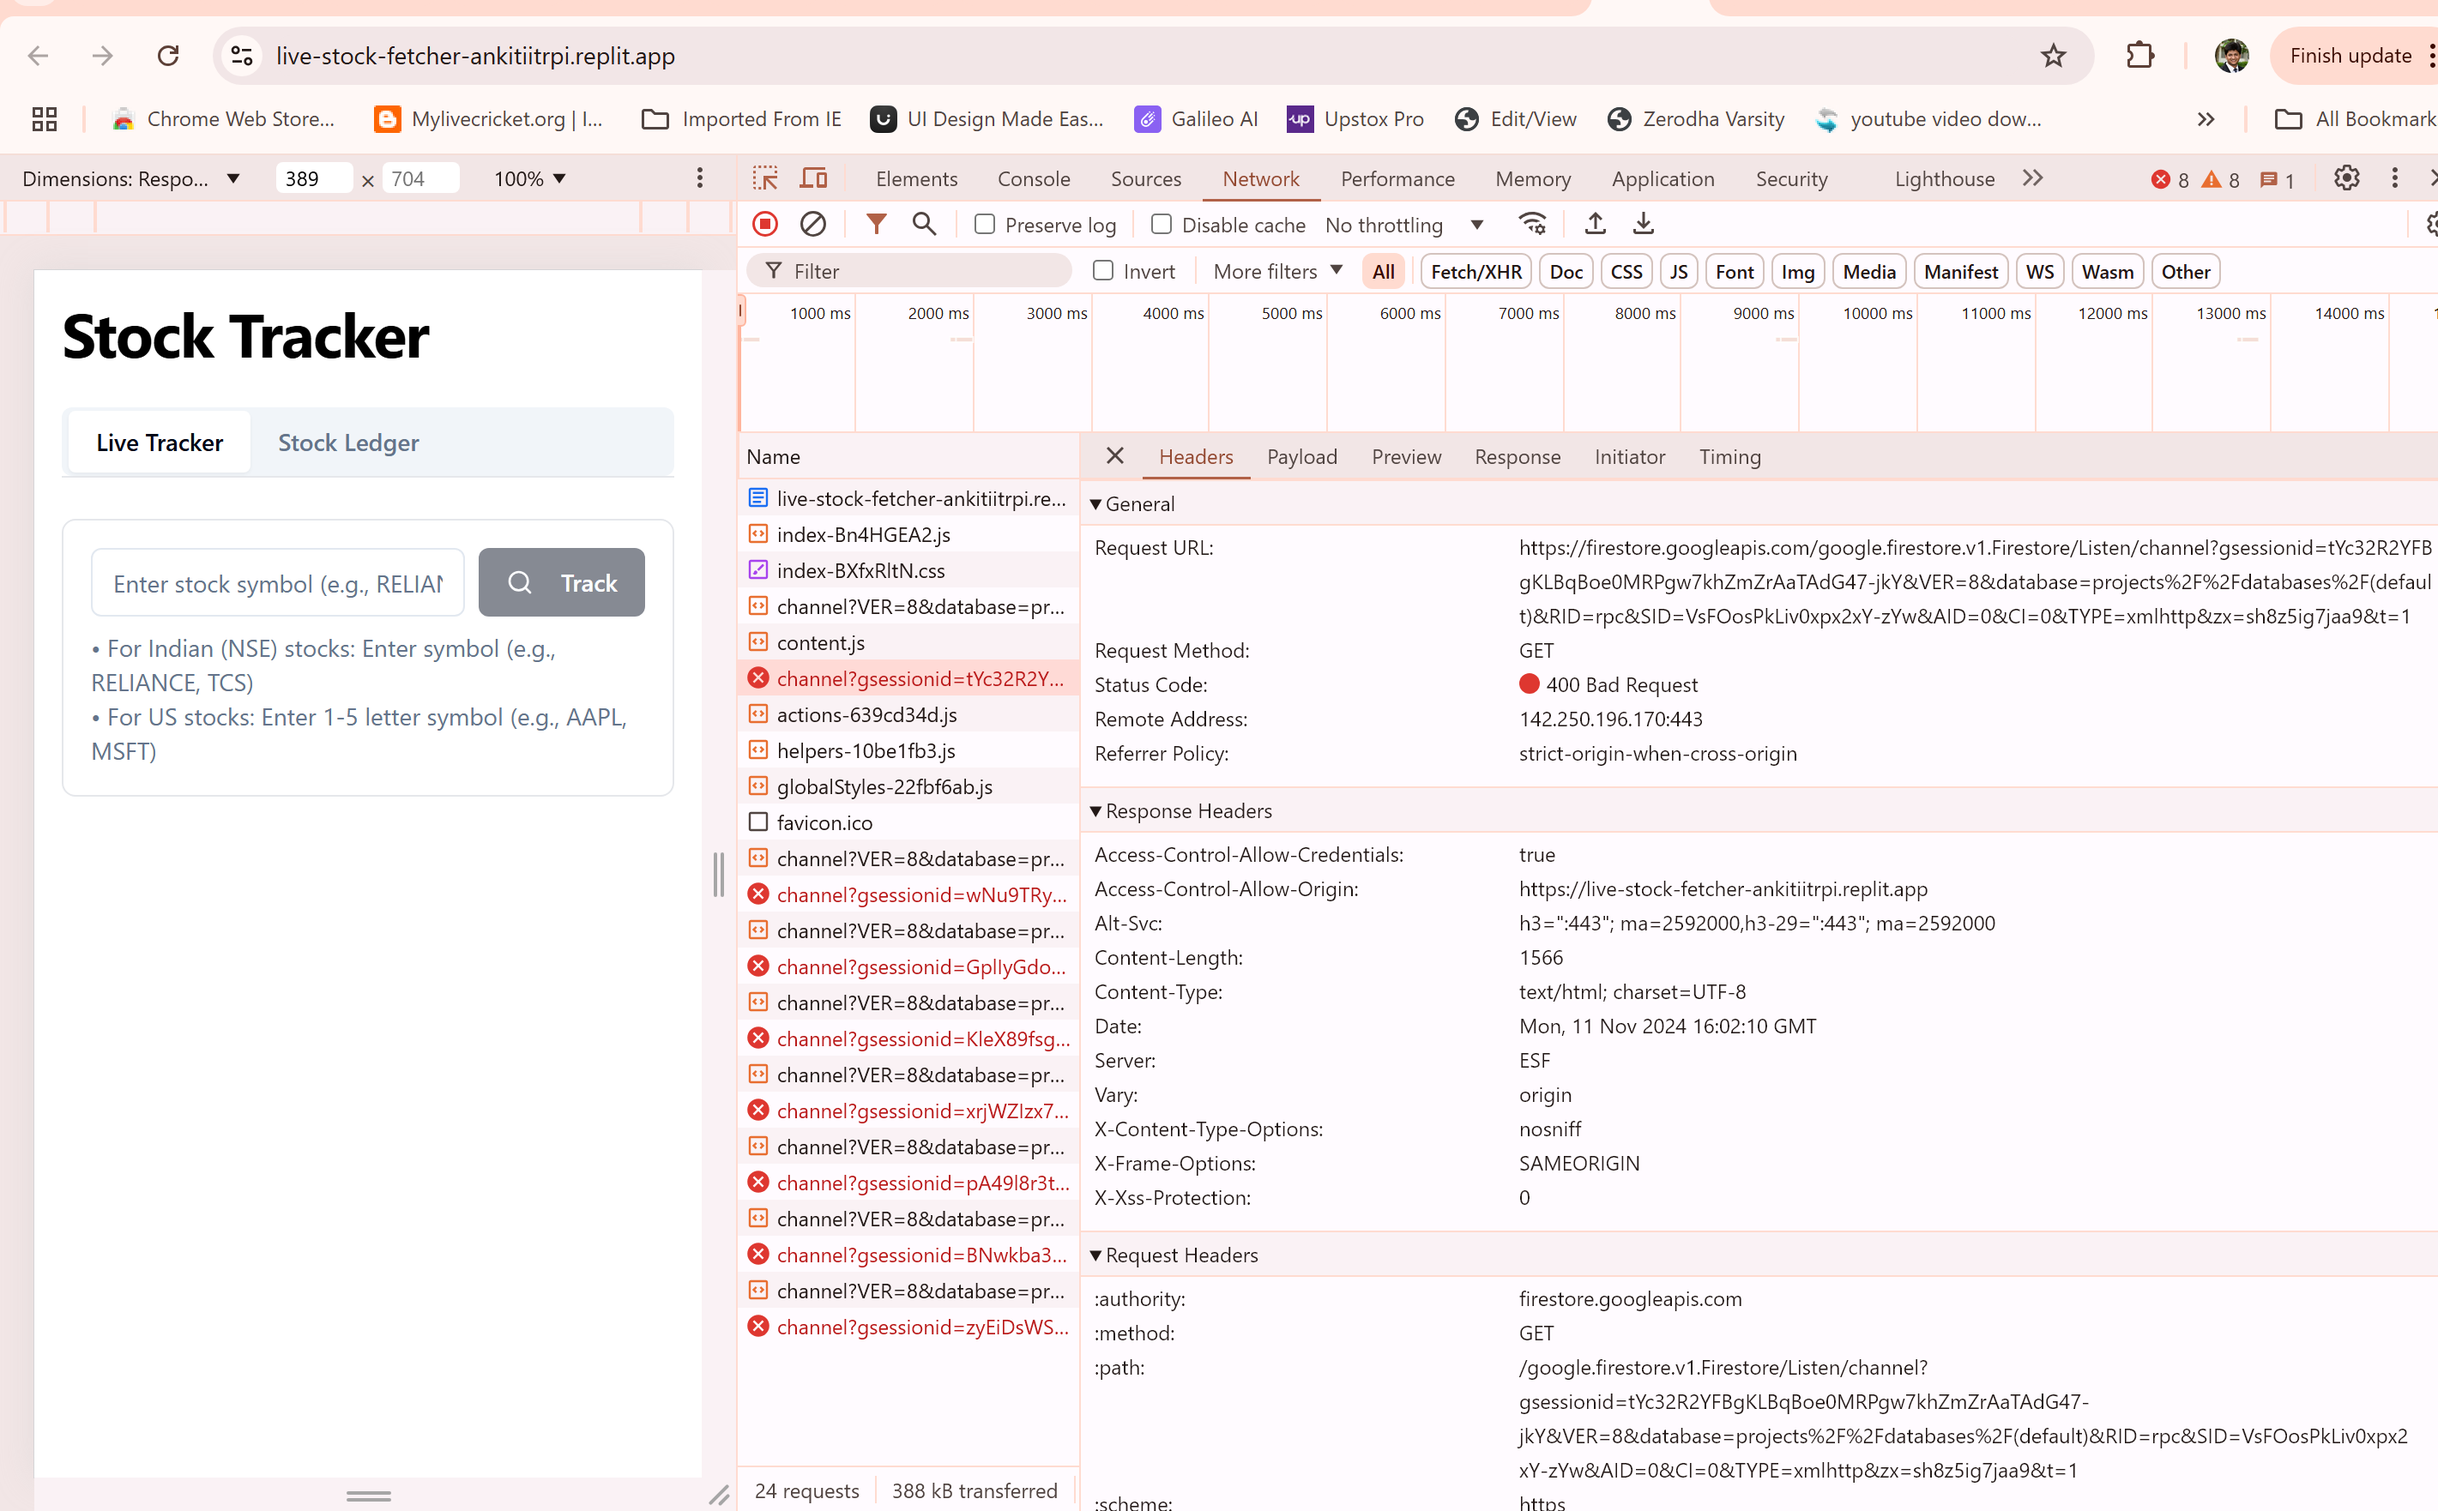
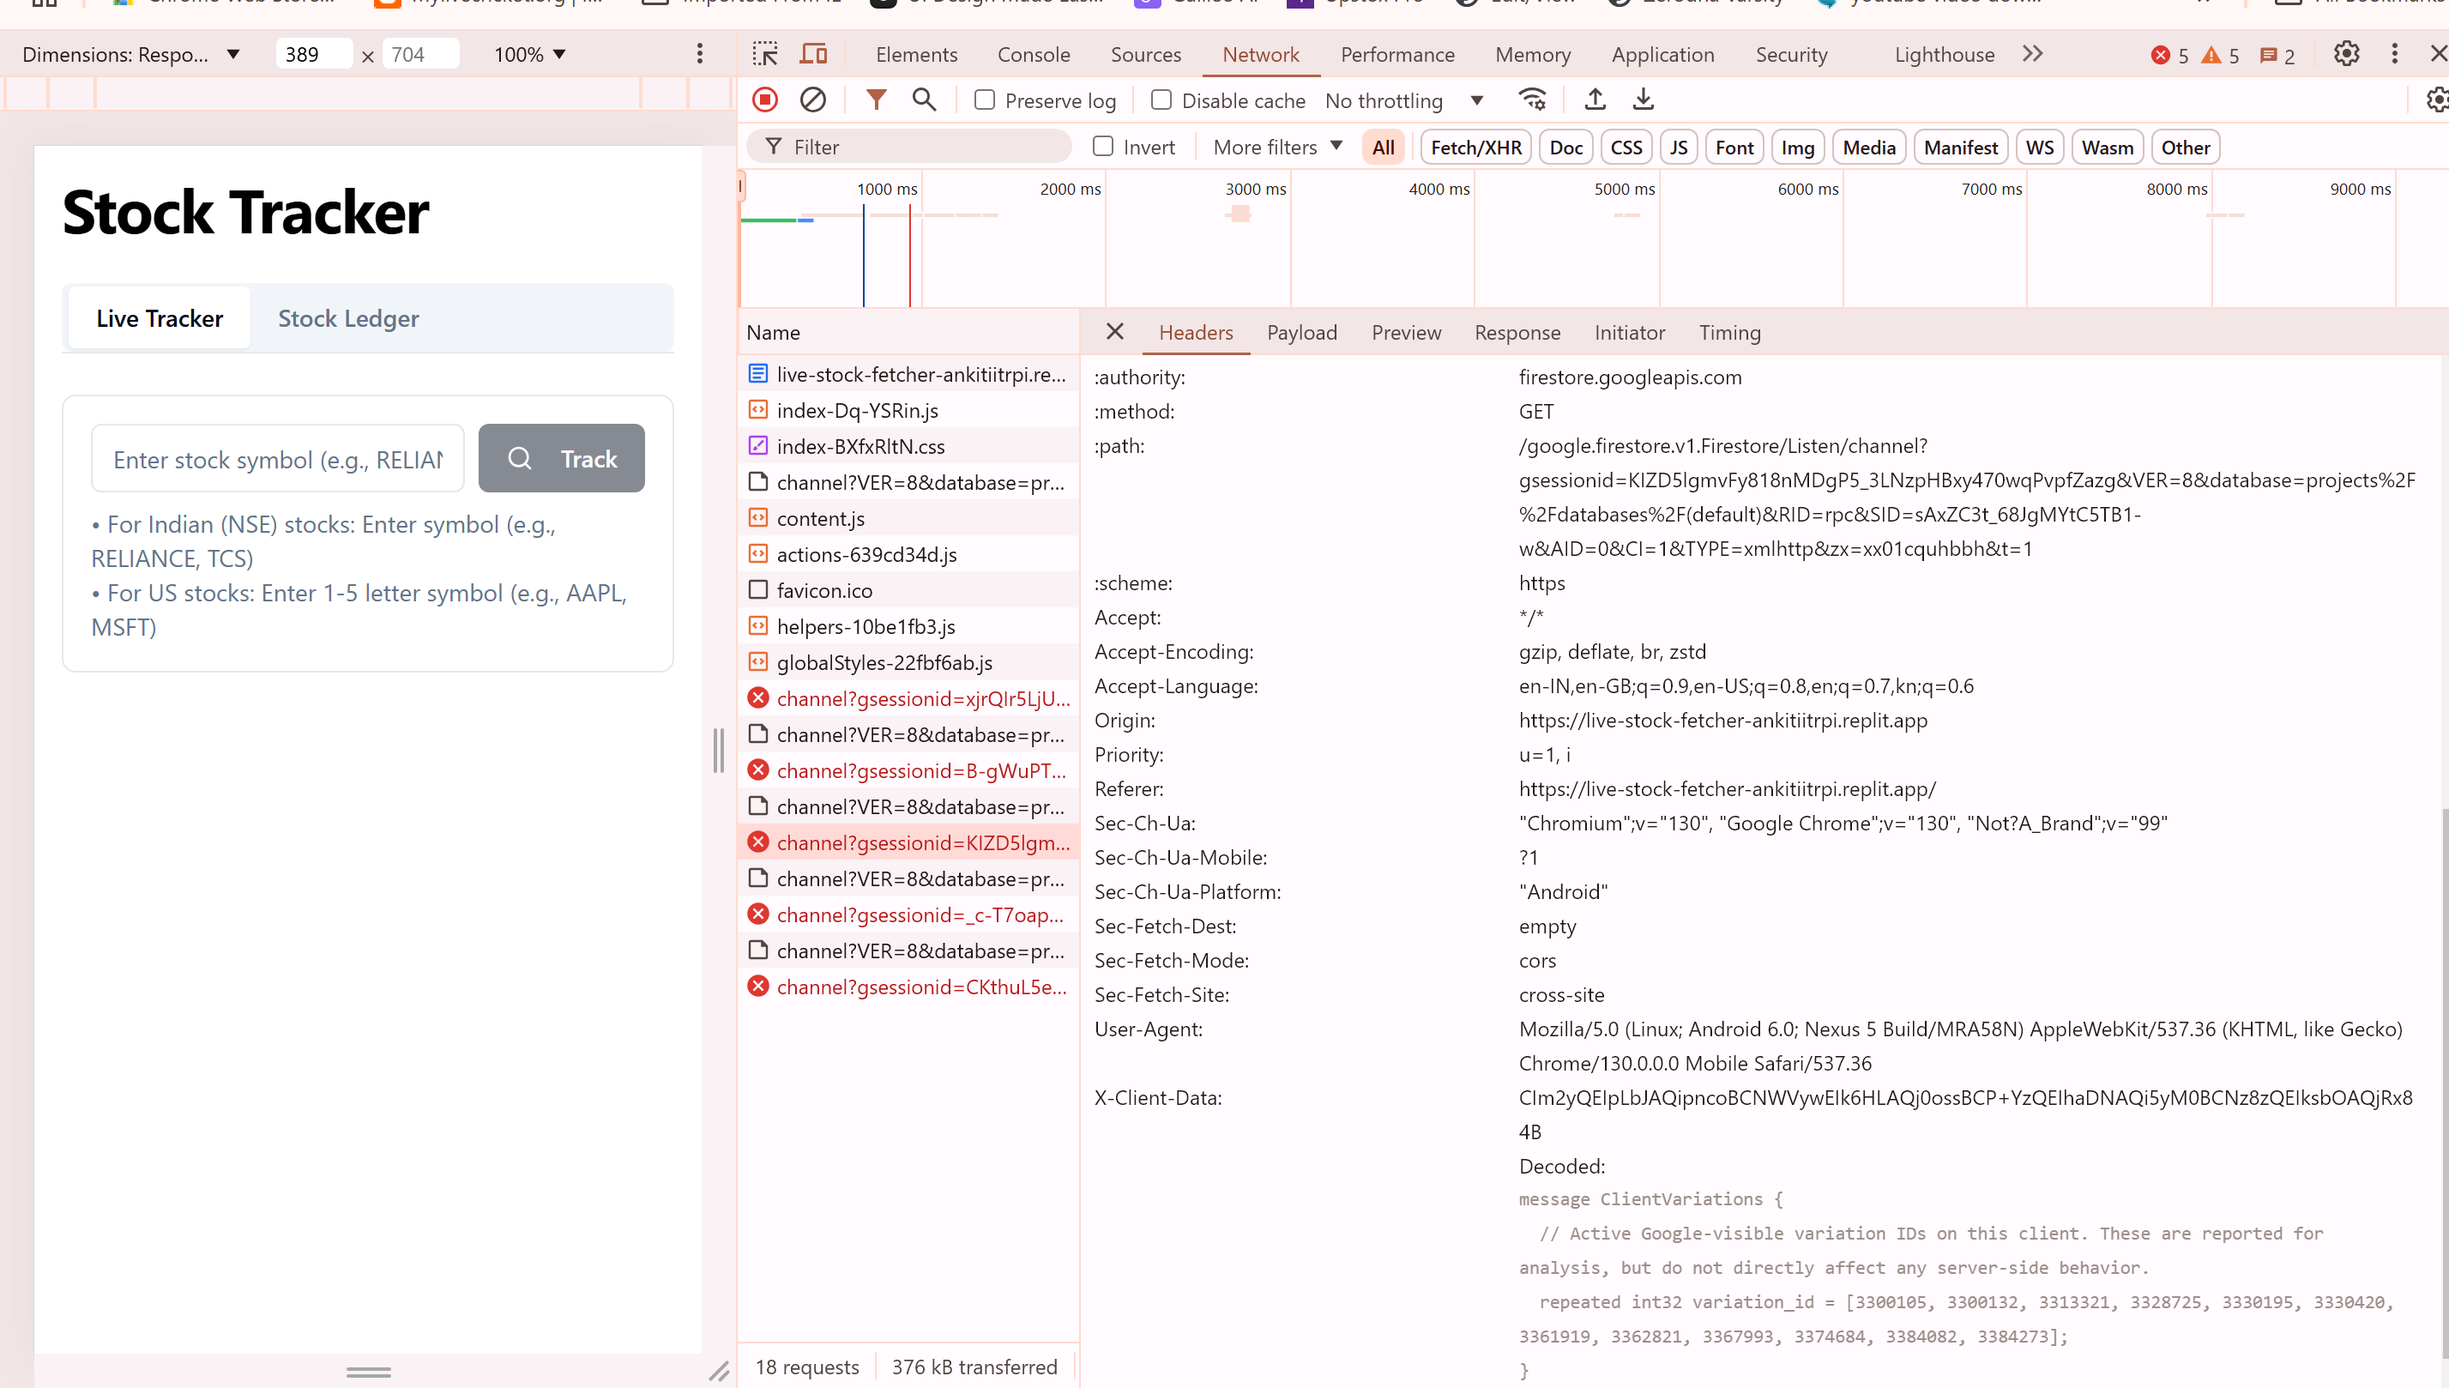
Agent query: Are the Firebase operations working correctly? Can you add and view stock entries without any loading state inconsistencies?

diff --git a/client/src/lib/firebase.ts b/client/src/lib/firebase.ts
@@ -1,7 +1,6 @@
 import { initializeApp } from 'firebase/app';
-import { getFirestore, initializeFirestore, Firestore } from 'firebase/firestore';
+import { getFirestore, initializeFirestore, persistentLocalCache, persistentMultipleTabManager } from 'firebase/firestore';
 
-// Firebase configuration using environment variables
 const firebaseConfig = {
   apiKey: import.meta.env.VITE_FIREBASE_API_KEY,
   authDomain: import.meta.env.VITE_FIREBASE_AUTH_DOMAIN,
@@ -11,7 +10,7 @@ const firebaseConfig = {
   appId: import.meta.env.VITE_FIREBASE_APP_ID,
 };
 
-// Initialize Firebase synchronously
+// Initialize Firebase with persistent cache
 let app;
 try {
   app = initializeApp(firebaseConfig);
@@ -20,15 +19,20 @@ try {
   throw error;
 }
 
-// Initialize Firestore with long polling for production stability
+// Initialize Firestore with improved configuration
 let db;
 try {
   db = initializeFirestore(app, {
+    localCache: persistentLocalCache({
+      tabManager: persistentMultipleTabManager()
+    }),
     experimentalForceLongPolling: true,
-    useFetchStreams: false
+    experimentalAutoDetectLongPolling: true,
+    cacheSizeBytes: 50 * 1024 * 1024 // 50 MB cache size
   });
 } catch (error) {
   console.error('Error initializing Firestore:', error);
+  // Fallback to basic configuration
   db = getFirestore(app);
 }
 

diff --git a/client/src/lib/stockLedgerService.ts b/client/src/lib/stockLedgerService.ts
@@ -15,11 +15,13 @@ import { db } from './firebase';
 import type { NewStockEntry, StockEntry } from '@/types/ledger';
 
 const COLLECTION_NAME = 'stockEntries';
-const MAX_RETRIES = 3;
-const RETRY_DELAY = 1000; // 1 second
+const MAX_RETRIES = process.env.NODE_ENV === 'production' ? 5 : 3;
+const RETRY_DELAY = process.env.NODE_ENV === 'production' ? 2000 : 1000; // 2 seconds for production, 1 second for development
 
 // Helper function for delay between retries
-const delay = (ms: number) => new Promise(resolve => setTimeout(resolve, ms));
+const delay = (ms: number, attempt: number) => new Promise(resolve => 
+  setTimeout(resolve, ms * Math.pow(2, attempt - 1))
+);
 
 // Serialize error objects for safe logging
 function serializeError(error: unknown): string {
@@ -76,7 +78,7 @@ async function withRetry<T>(
         throw error;
       }
       
-      await delay(RETRY_DELAY * Math.pow(2, attempt - 1));
+      await delay(RETRY_DELAY, attempt);
       safeConsoleLog(`Retrying ${operationName} (attempt ${attempt + 1}/${maxRetries})`);
     }
   }
